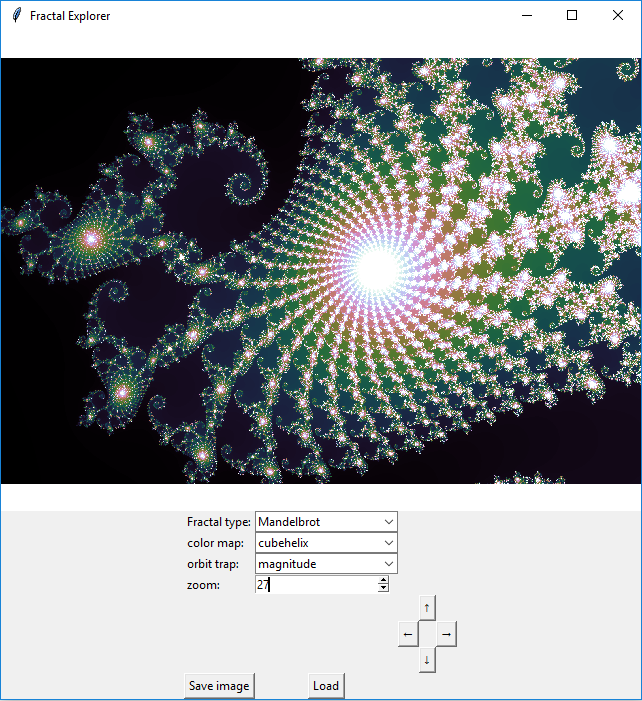
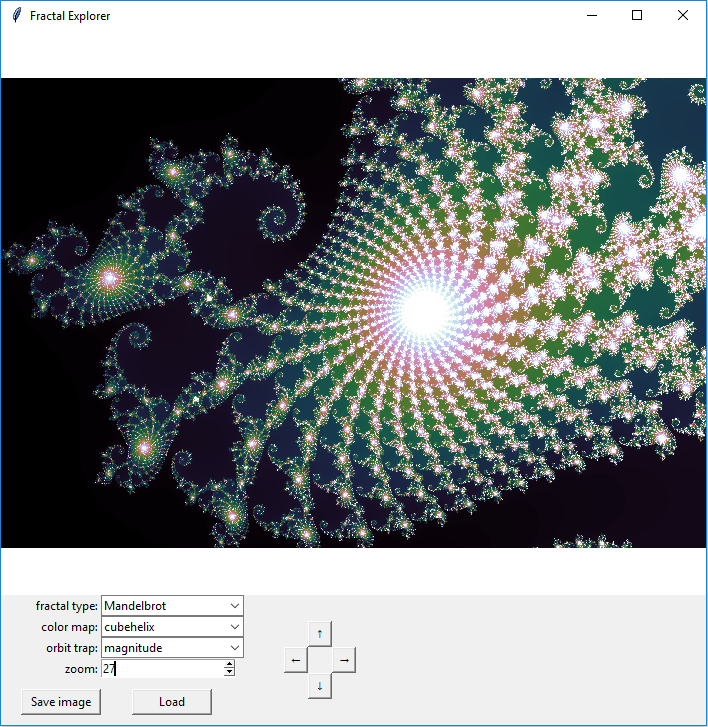
more aesthetic gui

diff --git a/fractal_explorer.py b/fractal_explorer.py
@@ -77,11 +77,11 @@ class FractalViewer(object):
 
         # save button
         self.b_save = tk.Button(self.options_frame, text='Save image', command=self.save_img, width=10)
-        self.b_save.grid(row=8, column=0)
+        self.b_save.grid(row=8, column=0, pady=10)
 
         # load position from image
         self.b_load = tk.Button(self.options_frame, text='Load', command=self.load_img, width=10)
-        self.b_load.grid(row=8, column=1)
+        self.b_load.grid(row=8, column=1, pady=10)
 
         # initialize image
         self.fractal_type = self.c_frac_type.get()
